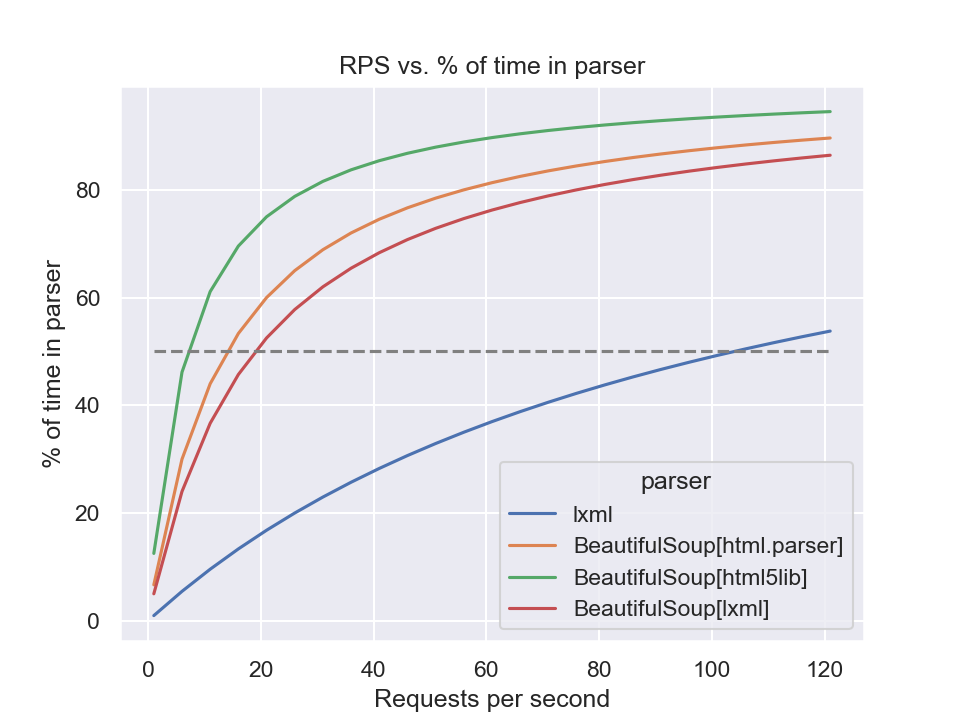
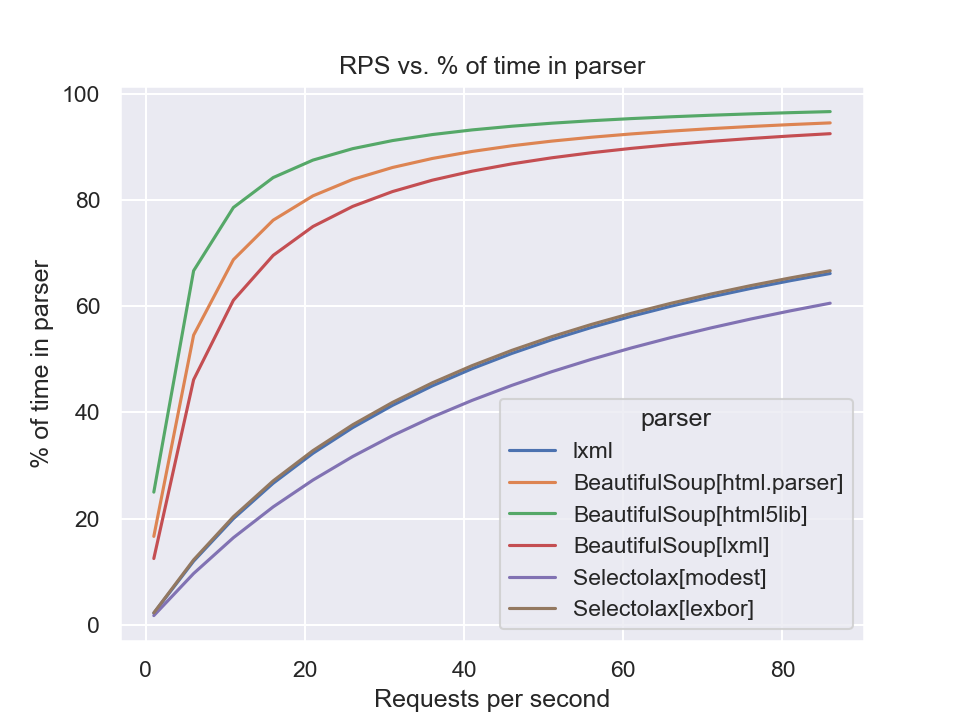
almost done with chapter on performance

diff --git a/aows/parsing/comparison_table.py b/aows/parsing/comparison_table.py
@@ -3,13 +3,15 @@ import seaborn as sns
 import matplotlib.pyplot as plt
 
 pages_per_second = {
-    "lxml": 104,
-    "BeautifulSoup[html.parser]": 14,
-    "BeautifulSoup[html5lib]": 7,
-    "BeautifulSoup[lxml]": 19,
+    "lxml": 44,
+    "BeautifulSoup[html.parser]": 5,
+    "BeautifulSoup[html5lib]": 3,
+    "BeautifulSoup[lxml]": 7,
+    "Selectolax[modest]": 56,
+    "Selectolax[lexbor]": 43,
 }
 
-max_rps = 126
+max_rps = 91
 rows = []
 for pages in (11824,):
     for parser, pps in pages_per_second.items():
@@ -34,13 +36,13 @@ for pages in (11824,):
 df = pd.DataFrame(rows)
 sns.set_theme()
 fig = sns.lineplot(data=df, x="rps", y="pct_in_scrape", hue="parser")
-plt.plot(range(1, max_rps, 5), [50] * 25, "--", color="grey")
+# plt.plot(range(1, max_rps, 5), [50] * 18, "--", color="grey")
 fig.set_ylabel(r"% of time in parser")
 fig.set_xlabel("Requests per second")
 
 plt.title("RPS vs. % of time in parser")
 plt.savefig(
-    "img/rps_vs_time.png",
+    "docs/img/rps_vs_time.png",
     dpi=150,
     #    bbox_inches=mpl.transforms.Bbox([[0, 0], [8.3, 4.6]]),
 )

diff --git a/docs/parsing/performance.md b/docs/parsing/performance.md
@@ -2,7 +2,11 @@
 
 ## Speed Comparison
 
-It makes sense to acknowledge that speed is rarely the most important part of choosing a scraping library. While it is generally true that scrapers are limited by the speed of the connection to the target website, the speed of different parsers can have a significant impact on the performance of your scraper.
+When talking about performance it makes sense to be realistic about the fact that speed is rarely the most important part of choosing a library for HTML parsing.
+
+As we'll see, most scrapers will be limited by the time spent making network requests, not the actual parsing of the HTML. While this is generally true, it is still good to understand the relative performance of these libraries.  We'll also take a look at when the performance of the parsers can have a significant impact on the performance of your scraper.
+
+To compare these libraries, I wrote a series of benchmarks to evaluate the performance of the libraries.
 
 ### #1 - Parsing HTML
 
@@ -35,7 +39,7 @@ The initial parse of the HTML is likely the most expensive part of the scraping 
 
 #### Results
 
-![load_dom](/img/load_dom.png)
+![load_dom](/aows/img/load_dom.png)
 
 | implementation             |   average_time |   normalized |
 |:---------------------------|---------------:|-------------:|
@@ -55,7 +59,7 @@ BeautifulSoup was much slower, even when using lxml as the parser, it was about 
 
 In an earlier draft of the benchmarks, I used a smaller page to test the parsers.  The results were similar, but not as dramatic:
 
-![](/img/graph2-load_dom-html5test.png)
+![](/aows/img/graph2-load_dom-html5test.png)
 
 Taking a look at a graph with just html5test, it is clear the relative speeds are about the same between the different test pages.
 
@@ -94,7 +98,7 @@ This benchmark uses each library to find all `<a>` tags with an `href` attribute
 
 #### Results
 
-![links_natural](/img/links_natural.png)
+![links_natural](/aows/img/links_natural.png)
 
 | implementation             |   average_time |   normalized |
 |:---------------------------|---------------:|-------------:|
@@ -144,7 +148,7 @@ I wanted to take a look at another way of getting the same data, in part to see 
 
 #### Results
 
-![links_css](/img/links_css.png)
+![links_css](/aows/img/links_css.png)
 
 | implementation             |   average_time |   normalized |
 |:---------------------------|---------------:|-------------:|
@@ -202,7 +206,7 @@ For this benchmark we'll walk the DOM tree and count the number of elements.  DO
 
 #### Results
 
-![](/img/count_elements.png)
+![](/aows/img/count_elements.png)
 
 | implementation             |   average_time |   normalized |
 |:---------------------------|---------------:|-------------:|
@@ -251,7 +255,7 @@ For this benchmark in particular, we'll extract text from each of the `<ul>` tag
 
 #### Results
 
-![](/img/extract_text.png)
+![](/aows/img/extract_text.png)
 
 | implementation             |   average_time |   normalized |
 |:---------------------------|---------------:|-------------:|
@@ -301,9 +305,9 @@ And of course, as before, all of this will be done using local files so no actua
 | Parser                      | Time (s) | Pages/s |
 | --------------------------- | -------- | --------|
 | lxml                        | 266      | 44      |
-| BeautifulSoup\[html.parser] | 2,292
-| BeautifulSoup\[html5lib]    | 1,627
-| BeautifulSoup\[lxml]        | 4,192
+| BeautifulSoup\[html.parser] | 2,292    | 5       |
+| BeautifulSoup\[html5lib]    | 4,575    | 3       |
+| BeautifulSoup\[lxml]        | 1,694    | 7       |
 | Selectolax\[modest]         | 211      | 56      |
 | Selectolax\[lexbor]         | 274      | 43      |
 
@@ -313,15 +317,17 @@ And of course, as before, all of this will be done using local files so no actua
 
 As is no surprise at this point, Selectolax and lxml.html are the clear winners here with no significant difference between them.
 
-Notably though, even the slowest TODO
+While the exact amount will vary depending on the specific parsers compared, it is fair to say the C-based libraries are about an order of magnitude faster.
 
-What if you were able to make 20 requests per second?  At that point, only lxml.html could keep up.
+If you are able to make more than ~10 requests/second, you might find that BeautifulSoup becomes a bottleneck.
 
 Let's take a look at how this plays out as we increase the number of requests per second:
 
-![](/img/rps_vs_time.png)
+![](/aows/img/rps_vs_time.png)
 
-So, as we increase the number of requests per second, lxml.html is the only parser that can keep up with our hypothetical scrape.
+As you increase the number of requests per second that you're able to obtain, the amount of the time spent in the parser increases. As you can see, by 10 requests per second, BeautifulSoup is taking more than half the time, and by 20 requests, it is taking ~80%.
+
+To contrast, `lxml.html` and `selectolax` are able to keep up with the increase in requests per second, unlikely to be the bottleneck until you are making 50+ requests per second.
 
 ## Memory Comparison
 
@@ -335,7 +341,7 @@ Finally, let's take a look at how much memory each parser uses while handling th
 
 This is somewhat difficult to measure, as the memory usage of an object is not easily accessible from Python.  I used [memray](https://github.com/bloomberg/memray) to measure a sample piece of code that loaded each parser and parsed the sample pages.  To compare the memory usage between complex pages and simple pages, the sample code also loaded the html5test page 100 times.
 
-![](/img/memory_usage.png)
+![](/aows/img/memory_usage.png)
 
 One thing to note is that the memory usage seems to be correlated to complexity (i.e. number of tags), which makes sense.
 

diff --git a/docs/parsing/index.md b/docs/parsing/index.md
@@ -1,17 +1,17 @@
 # Comparing Parsing Libraries
 
-When people talk about Python libraries for writing
-web scrapers, they immediately think of [Beautiful Soup](https://www.crummy.com/software/BeautifulSoup/).
+When people talk about Python libraries for writing web scrapers, they immediately think of [Beautiful Soup](https://www.crummy.com/software/BeautifulSoup/).  Nearly 20 years old, it is one of the most well-established Python libraries out there. 
 
-Nearly 20 years old, Beautiful Soup is one of the most well-established Python libraries out there. It's popular enough people were often surprised to find out that Open States didn't use it. We used [lxml](http://lxml.de/) instead, switching around the time of the somewhat fraught BeautifulSoup 4 transition. Over the years I developed my own opinions about the libraries, but for the purposes of this book wanted to check my own assumptions as well as the conventional wisdom about these libraries.
+It's popular enough that I find that people are often surprised to learn there are alternatives.  Personally, I switched to [lxml](http://lxml.de/) around the time of the somewhat fraught BeautifulSoup 4 transition and never really looked back. Part of my motivation for looking at these libraries is to see where they stack up in 2023.
 
-If you look on sites like Stack Overflow, the conventional wisdom is that Beautiful Soup is the most flexible, while lxml is much faster. Many of these answers are from about a decade ago though.
+If you look on sites like Stack Overflow, the conventional wisdom is that Beautiful Soup is the most flexible, while lxml is much faster. 
+While I expect this is still true, I'm curious to see how much has changed in the last decade.
 
 Furthermore, as of BS4, Beautiful Soup works as a wrapper around a number of different parsers. It's [documentation](https://www.crummy.com/software/BeautifulSoup/bs4/doc/#installing-a-parser) explains how to pick a parser and offers some conventional wisdom about which you should pick. The default parser is [html.parser](https://docs.python.org/3/library/html.parser.html), which is part of the Python standard library. You can also use [lxml](http://lxml.de/) or html5lib.
 
-There's also a much newer kid in town, [Selectolax](https://github.com/rushter/selectolax).
+There's also a much newer kid in town, [Selectolax](https://github.com/rushter/selectolax). It's a wrapper around a new open source HTML parsing library and claims to be faster than lxml.
 
-I wanted to take a look at these three libraries and their various parsing engines to see how they stack up against one another.
+In this section, we'll be taking a look at how these libraries stack up against one another.
 
 We'll try to answer questions like:
 

diff --git a/docs/introduction.md b/docs/introduction.md
@@ -38,7 +38,7 @@ This section aims to cover broad topics in web scraping. This isn't particularly
 These chapters are focused on the Python scraping ecosystem.  Each chapter will compare a few libraries, and discuss the pros & cons of each.
 
 * **Chapter 5: Making Requests** - Various libraries for making HTTP requests.
-* **Chapter 6: [Parsing HTML](parsing/intro.md) ** - Comparing various libraries for parsing HTML.
+* **Chapter 6: [Parsing HTML](parsing/index.md) ** - Comparing various libraries for parsing HTML.
 * **Chapter 7: Other Libraries** - Other libraries that are useful for scraping.
 * **Chapter 8: Scrapy** - A discussion of Scrapy.
 
